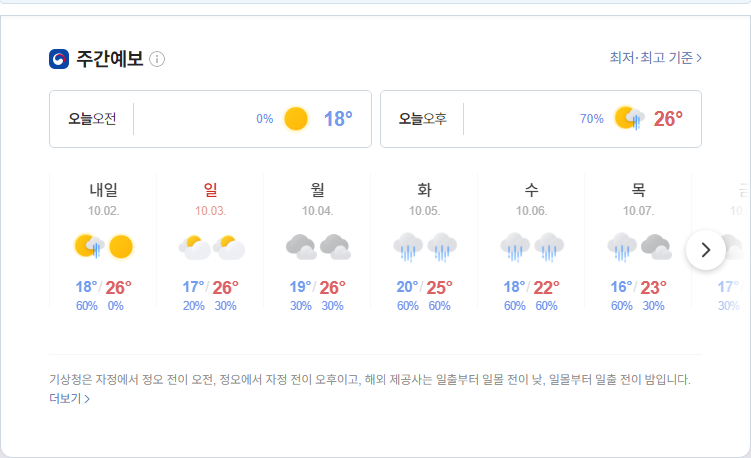
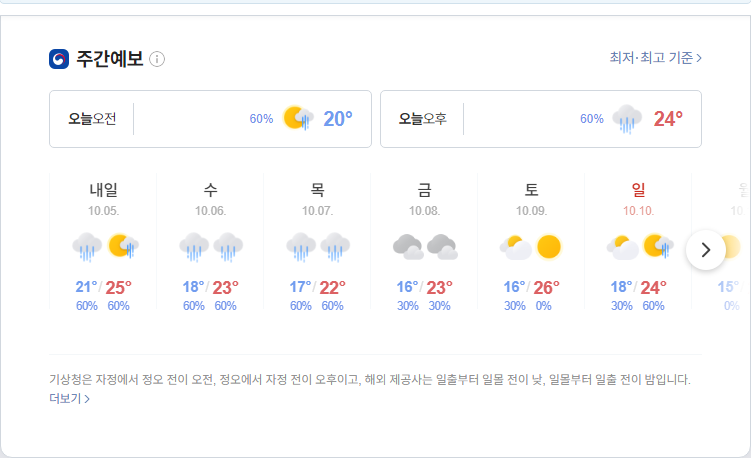
update result

diff --git a/README.md b/README.md
@@ -1,5 +1,5 @@
-##  2021-10-01 16:02:57   금요일 
-##### 날씨   -   어제보다 1° 높아요맑음  
+##  2021-10-04 05:54:50   월요일 
+##### 날씨   -   어제보다 3° 높아요구름많음  
 <center><img src="../img/naver_weather_week.png"></center>
 ----
 ----
@@ -13,19 +13,19 @@
 ##### 세계
 <table border="1" bordercolor="blue" align = "center" >
 <tr align = "right" > <td>Item</td><td>Point</td><td>Diff</td><td>Rate</td><td>Buy</td><td>Sell</td><td>...</td>  </tr>
-<tr align = "right" > <td>DOW</td><td>33,843.92</td><td>-546.8</td><td><font size="3" color="blue" >-1.59%</font></td><td><font size="3" color="black">0</font></td><td><font size="3" color="black">0</font></td><td>0</td>  </tr>
-<tr align = "right" > <td>NASDAQ</td><td>14,448.58</td><td>-63.86</td><td><font size="3" color="blue" >-0.44%</font></td><td><font size="3" color="black">0</font></td><td><font size="3" color="black">0</font></td><td>0</td>  </tr>
-<tr align = "right" > <td>S&P</td><td>4,307.54</td><td>-51.92</td><td><font size="3" color="blue" >-1.19%</font></td><td><font size="3" color="black">0</font></td><td><font size="3" color="black">0</font></td><td>0</td>  </tr>
+<tr align = "right" > <td>DOW</td><td>34,326.46</td><td>482.54</td><td><font size="3" color="red" >1.43%</font></td><td><font size="3" color="black">0</font></td><td><font size="3" color="black">0</font></td><td>0</td>  </tr>
+<tr align = "right" > <td>NASDAQ</td><td>14,566.7</td><td>118.12</td><td><font size="3" color="red" >0.82%</font></td><td><font size="3" color="black">0</font></td><td><font size="3" color="black">0</font></td><td>0</td>  </tr>
+<tr align = "right" > <td>S&P</td><td>4,357.04</td><td>49.5</td><td><font size="3" color="red" >1.15%</font></td><td><font size="3" color="black">0</font></td><td><font size="3" color="black">0</font></td><td>0</td>  </tr>
 <tr align = "right" > <td>SHANHAI</td><td>3,568.17</td><td>31.87</td><td><font size="3" color="red" >0.9%</font></td><td><font size="3" color="black">0</font></td><td><font size="3" color="black">0</font></td><td>0</td>  </tr>
-<tr align = "right" > <td>INDIA</td><td>58,602.54</td><td>-523.82</td><td><font size="3" color="blue" >-0.89%</font></td><td><font size="3" color="black">0</font></td><td><font size="3" color="black">0</font></td><td>0</td>  </tr>
+<tr align = "right" > <td>INDIA</td><td>58,765.58</td><td>-360.78</td><td><font size="3" color="blue" >-0.61%</font></td><td><font size="3" color="black">0</font></td><td><font size="3" color="black">0</font></td><td>0</td>  </tr>
 </table>
 ----
 ##### 시장
 <table border="1" bordercolor="blue" align = "center" >
 <tr align = "right" > <td>Item</td><td>Price</td><td>Diff</td><td>Rate</td><td>Buy</td><td>Sell</td><td>...</td>  </tr>
-<tr align = "right" > <td>USD</td><td>1,188.0</td><td>2.5</td><td><font size="3" color="red">0.21%</font></td><td><font size="3" color="black">1,110</font></td><td><font size="3" color="black">0</font></td><td>0</td>  </tr>
-<tr align = "right" > <td>WTI</td><td>75.03</td><td>0.2</td><td><font size="3" color="red">0.26%</font></td><td><font size="3" color="black">29.0</font></td><td><font size="3" color="black">0</font></td><td>0</td>  </tr>
-<tr align = "right" > <td>GOLD</td><td>1,755.0</td><td>33.8</td><td><font size="3" color="red">1.96%</font></td><td><font size="3" color="black">0</font></td><td><font size="3" color="black">0</font></td><td>0</td>  </tr>
+<tr align = "right" > <td>USD</td><td>1,187.0</td><td>1.0</td><td><font size="3" color="red">0.08%</font></td><td><font size="3" color="black">1,110</font></td><td><font size="3" color="black">0</font></td><td>0</td>  </tr>
+<tr align = "right" > <td>WTI</td><td>75.88</td><td>0.85</td><td><font size="3" color="red">1.13%</font></td><td><font size="3" color="black">29.0</font></td><td><font size="3" color="black">0</font></td><td>0</td>  </tr>
+<tr align = "right" > <td>GOLD</td><td>1,757.0</td><td>1.7</td><td><font size="3" color="red">0.09%</font></td><td><font size="3" color="black">0</font></td><td><font size="3" color="black">0</font></td><td>0</td>  </tr>
 </table>
 ----
 ##### 주가
